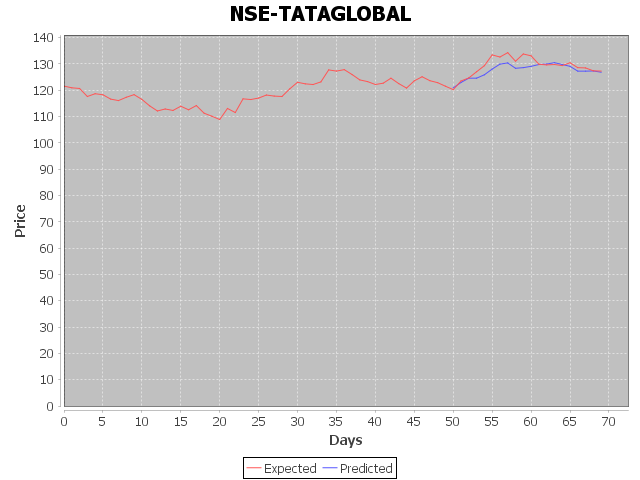
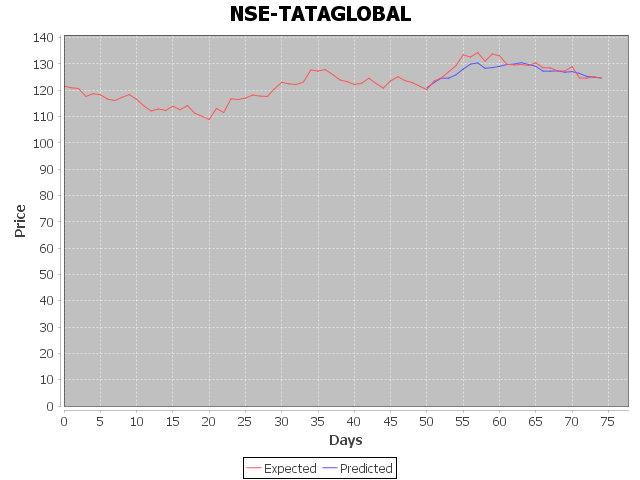
summary

diff --git a/src/main/java/org/pp/nn/NeuralNetwork.java b/src/main/java/org/pp/nn/NeuralNetwork.java
@@ -22,6 +22,7 @@ public class NeuralNetwork {
                 .trainingWorkspaceMode(WorkspaceMode.ENABLED).inferenceWorkspaceMode(WorkspaceMode.ENABLED)
                 .optimizationAlgo(OptimizationAlgorithm.STOCHASTIC_GRADIENT_DESCENT)
                 .weightInit(WeightInit.XAVIER)
+                //.seed(1630946263486L)
                 .updater(new RmsProp(0.0001))
                 .list()
 

diff --git a/src/main/java/org/pp/Test.java b/src/main/java/org/pp/Test.java
@@ -23,7 +23,7 @@ import java.io.File;
 public class Test {
 
     static int inpNum = 50;
-    static int outNum = 20;
+    static int outNum = 25;
 
     static CustomDataPrePreprocessor normalizer = new CustomDataPrePreprocessor();
 
